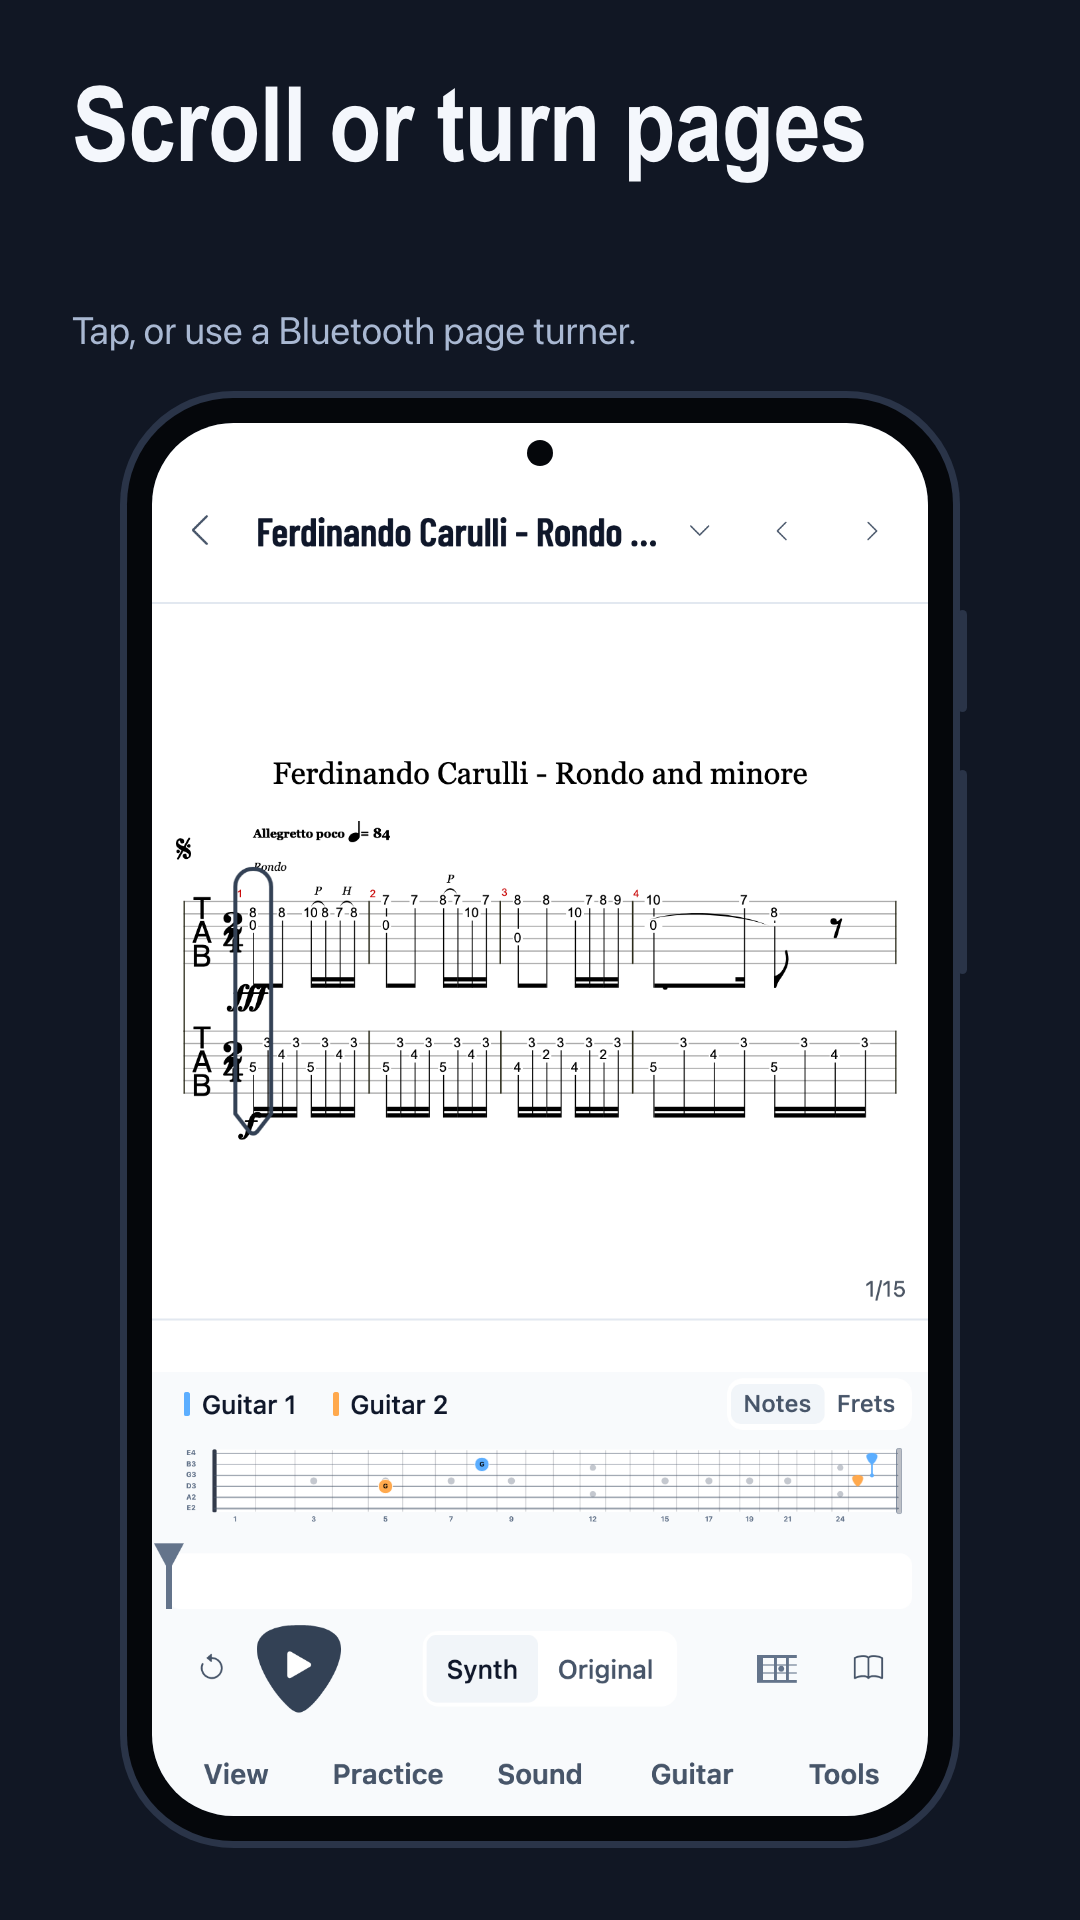
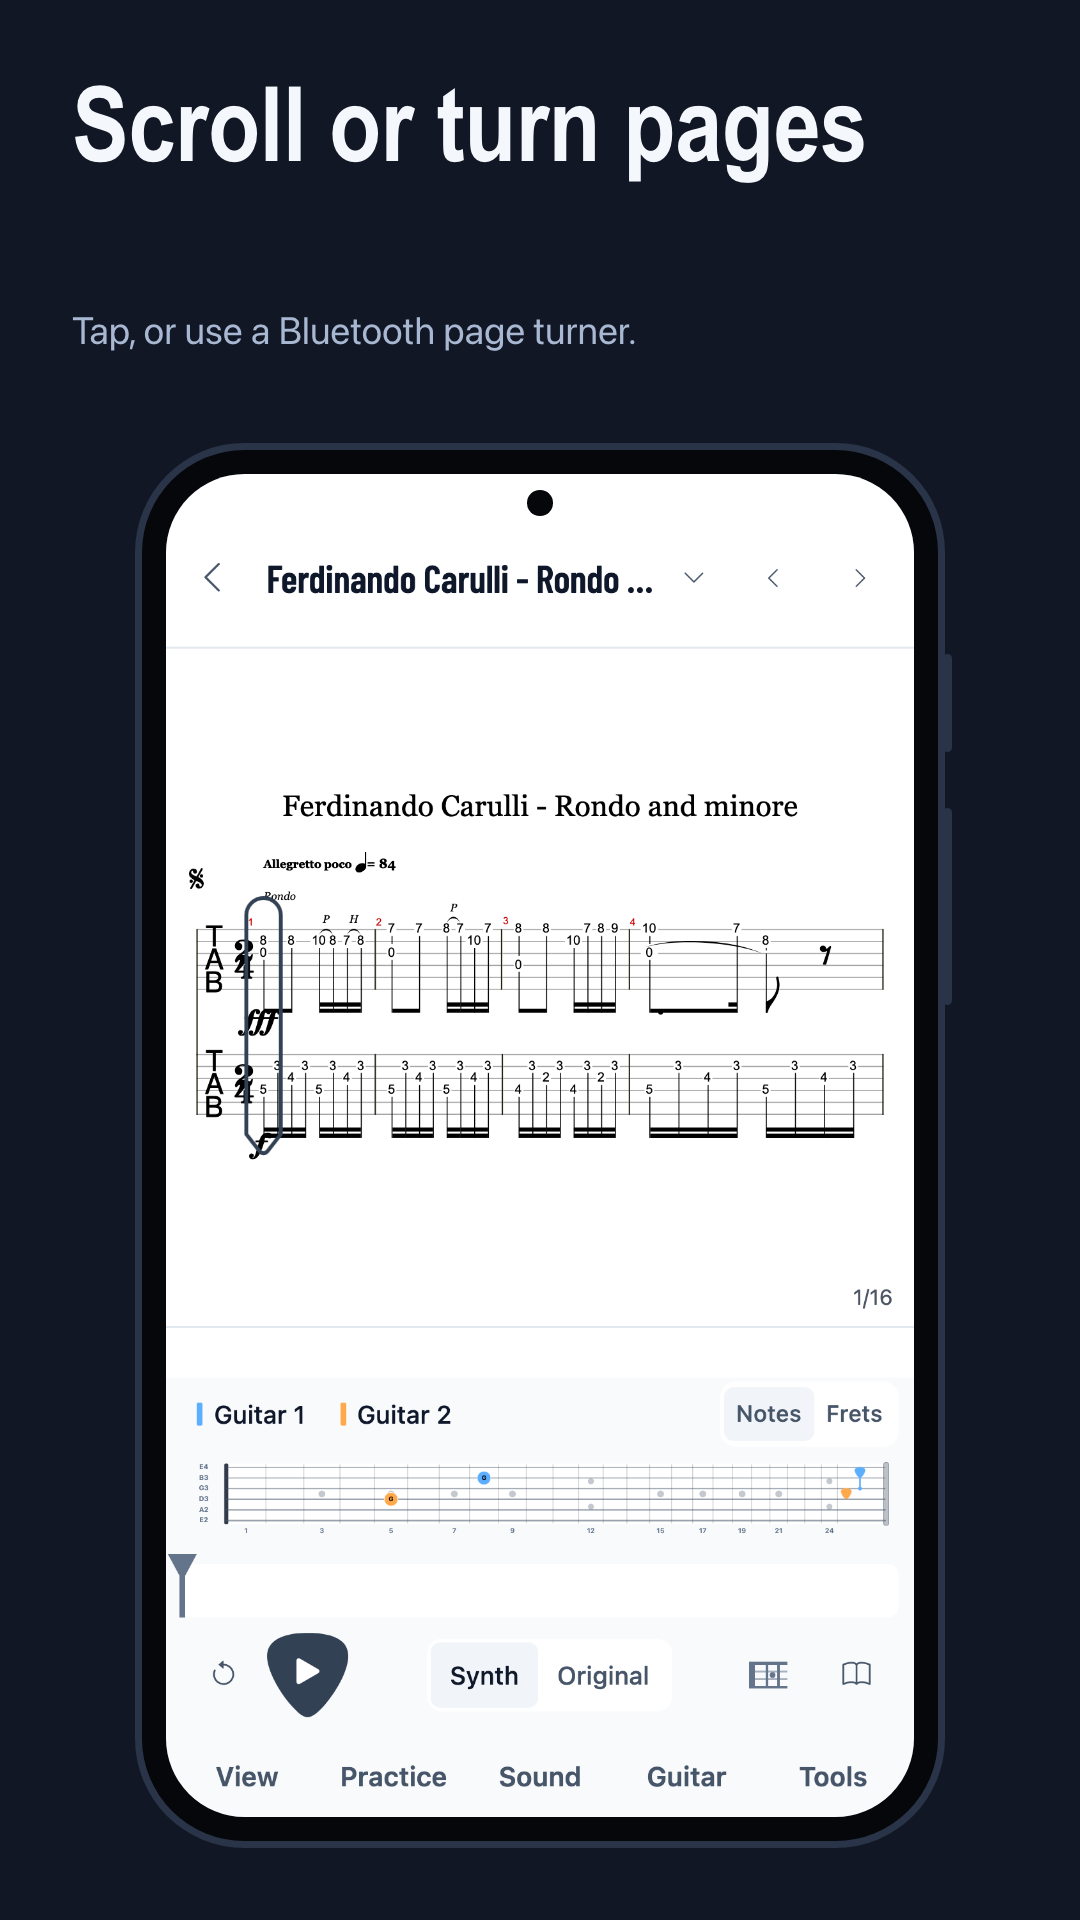
Phone reader: Sound sheets reach the Sound word and the open word has square top corners; segmented tracks grow to touch targets; store screenshots reserve the same text height

diff --git a/src/design.css b/src/design.css
@@ -317,6 +317,9 @@ body { font: 15px/1.45 system-ui, -apple-system, 'Segoe UI', Roboto, 'Helvetica 
   transition: color var(--dur-fast) ease-in-out;
 }
 .hud-pill-group .btn[hidden] { display: none !important; }
+/* On touch the segments keep a 44px target, so the track grows to them instead of staying at its fixed height (the selected segment
+   was taller than the track). The reader's bottom words and nav keep their own sizing. */
+@media (pointer: coarse) { .hud-pill-group:not(#navButtons, #topFlexZone *) { height: auto !important; } }
 .hud-pill-group .btn.active, .hud-pill-group .btn-check:checked + .btn, #topBar .hud-pill-group .btn.active,
 #topBar .hud-pill-group .btn-check:checked + .btn {
   background: var(--s3) !important; color: var(--ink) !important; box-shadow: none !important;
@@ -2681,8 +2684,6 @@ body.phone-reader:not(.library-view-active) #topFlexZone { order: 3; flex: 0 0 1
   /* the home-indicator inset is the bar's own padding, outside the words, so a pressed or selected word's tone is a normal 48px key (tabletop keeps its own) */
   :where(html:not(.duo-tabletop)) body.phone-reader:not(.library-view-active) > #topFlexZone { padding-bottom: env(safe-area-inset-bottom, 0px); }
   :where(html:not(.duo-tabletop)) body.phone-reader:not(.library-view-active) > #topFlexZone .btn { min-height: 48px; padding-bottom: 0 !important; box-sizing: border-box; align-items: center; }
-  /* square top corners, so the selected word joins the sheet that now opens right above it (as in tabletop) */
-  :where(html:not(.duo-tabletop)) body.phone-reader:not(.library-view-active) > #topFlexZone .btn { border-radius: 0 0 var(--r-control) var(--r-control) !important; }
   body.phone-reader.reading-mode:not(.library-view-active) > #topFlexZone { display: none; }
   /* The five words below the strip clear the home indicator; without them (Reading mode) the strip does */
   body.phone-reader:not(.library-view-active) { --strip-inset: 0px; }
@@ -2702,6 +2703,8 @@ body.phone-reader:not(.library-view-active) #topFlexZone { order: 3; flex: 0 0 1
 }
 body.phone-reader:not(.library-view-active) #topFlexZone .hud-pill-group, body.phone-reader:not(.library-view-active) #topFlexZone .rbar-item { flex: 1 1 0; display: flex; min-width: 0; }
 body.phone-reader:not(.library-view-active) #topFlexZone .btn { flex: 1; min-height: 44px; padding-inline: 2px !important; justify-content: center; border-radius: var(--r-control) !important; }
+/* the word whose sheet is open has square top corners, so it joins the sheet right above it (tabletop has its own rule) */
+:where(html:not(.duo-tabletop)) body.phone-reader:not(.library-view-active) > #topFlexZone .btn:is([aria-expanded="true"], .active) { border-radius: 0 0 var(--r-control) var(--r-control) !important; }
 body.phone-reader:not(.library-view-active) .bar-btn-label { font-size: 14px; }
 /* The top leaves upward in Reading mode only. It overlays the score, so nothing is resized. */
 body.phone-reader:not(.library-view-active) #topBar.hud-hidden:not(.hud-transient) {
@@ -4894,11 +4897,15 @@ body:not(.sheet-mode-dark) .gp-reader-cursor svg { mix-blend-mode: multiply; }
 }
 
 /* Portrait phone: the five words' sheets open from their tab, over the strip (ruler and transport), as in tabletop, instead of
-   stacking above the dock. The five words stay visible; Song and the sound panels keep their own places. */
+   stacking above the dock. The five words stay visible (the Sound word's Synth and Original sheets too); Song keeps its own place. */
 @media (orientation: portrait) {
-  :where(html:not(.duo-tabletop)) body.phone-reader:not(.library-view-active) :is(#viewMenu, #practiceMenu, #guitarMenu, #toolsMenu) {
+  :where(html:not(.duo-tabletop)) body.phone-reader:not(.library-view-active) :is(#viewMenu, #practiceMenu, #guitarMenu, #toolsMenu, #synthDropdownPanel, #ytDropdownPanel) {
     bottom: var(--reader-bottom-nav-h, 0px) !important;
     max-height: min(72vh, calc(100vh - var(--topbar-h, 52px) - var(--reader-bottom-nav-h, 0px) - 12px)) !important;
+  }
+  /* The Original sheet keeps one height whichever source is shown; it runs down to the Sound word like the others. */
+  :where(html:not(.duo-tabletop)) body.phone-reader:not(.library-view-active) #ytDropdownPanel {
+    height: min(60vh, calc(100vh - var(--topbar-h, 52px) - var(--reader-bottom-nav-h, 0px) - 12px)) !important;
   }
 }
 

diff --git a/support/tools/store_screenshots.py b/support/tools/store_screenshots.py
@@ -531,8 +531,9 @@ def compose(page, raw_path, out_path, size, headline, subtitle, device):
     lines = 2 if len(headline) > (19 if portrait else 40) else 1
     ptop = top + round(hs * lines + 24 * k)
     ps = round((38 if portrait else 30) * k)
-    sub_lines = 2 if len(subtitle) > (40 if portrait else 70) else 1
-    iy = ptop + round(ps * 1.35 * sub_lines + (36 if portrait else 28) * k)
+    # The device starts at the same height in every shot: the room for a two-line headline and a two-line subtitle is always
+    # reserved, so the device is one size across a store's set whatever the copy length. The text itself sits at the top.
+    iy = top + round(hs * 2 + 24 * k) + round(ps * 1.35 * 2 + (36 if portrait else 28) * k)
     # The whole capture is shown inside its device, as large as the space left allows.
     bottom = m if portrait else round(44 * k)
     d = device_layout(device, cap.width / cap.height, W - 2 * m, H - iy - bottom)
